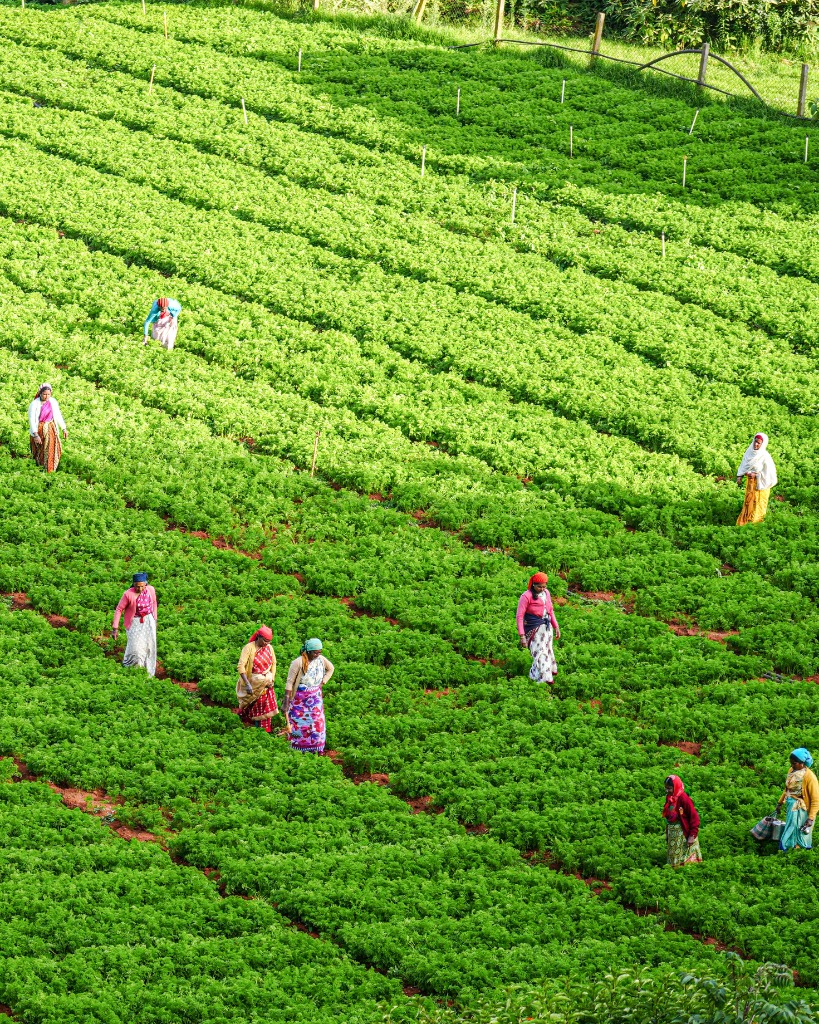
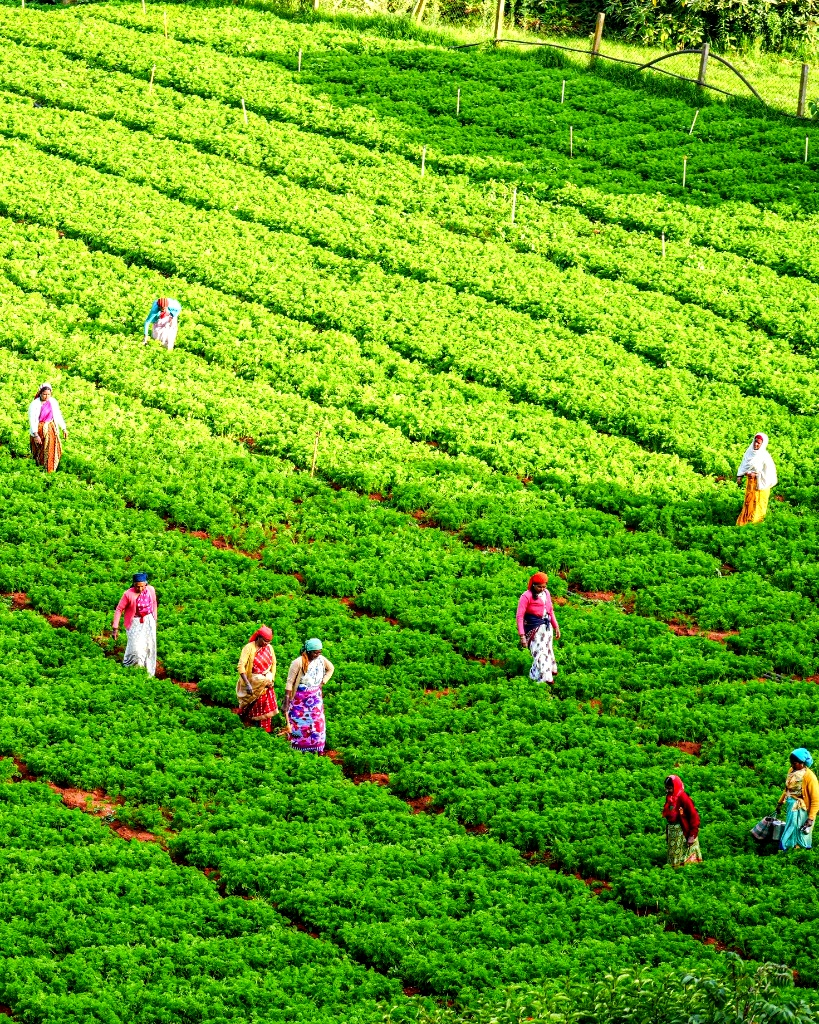
style(ui): boost background image contrast, dynamic range, and saturation; replace milky wash with high-contrast vignette

diff --git a/frontend/src/App.jsx b/frontend/src/App.jsx
@@ -253,10 +253,10 @@ export default function App() {
           key={currentBg}
           src={currentBg}
           alt=""
-          className="w-full h-full object-cover object-center transition-opacity duration-700 ease-in-out opacity-95"
+          className="w-full h-full object-cover object-center transition-opacity duration-700 ease-in-out contrast-125 saturate-115 brightness-95"
         />
-        {/* Vibrant atmospheric gradient wash so the HD photo is vivid & clearly visible while cards pop */}
-        <div className="absolute inset-0 bg-gradient-to-b from-white/35 via-white/15 to-white/40" />
+        {/* Crisp high-contrast vignette overlay - removes any milky haze and boosts dynamic range */}
+        <div className="absolute inset-0 bg-gradient-to-b from-black/15 via-transparent to-black/25" />
       </div>
 
       {/* Floating Glass Navbar */}
